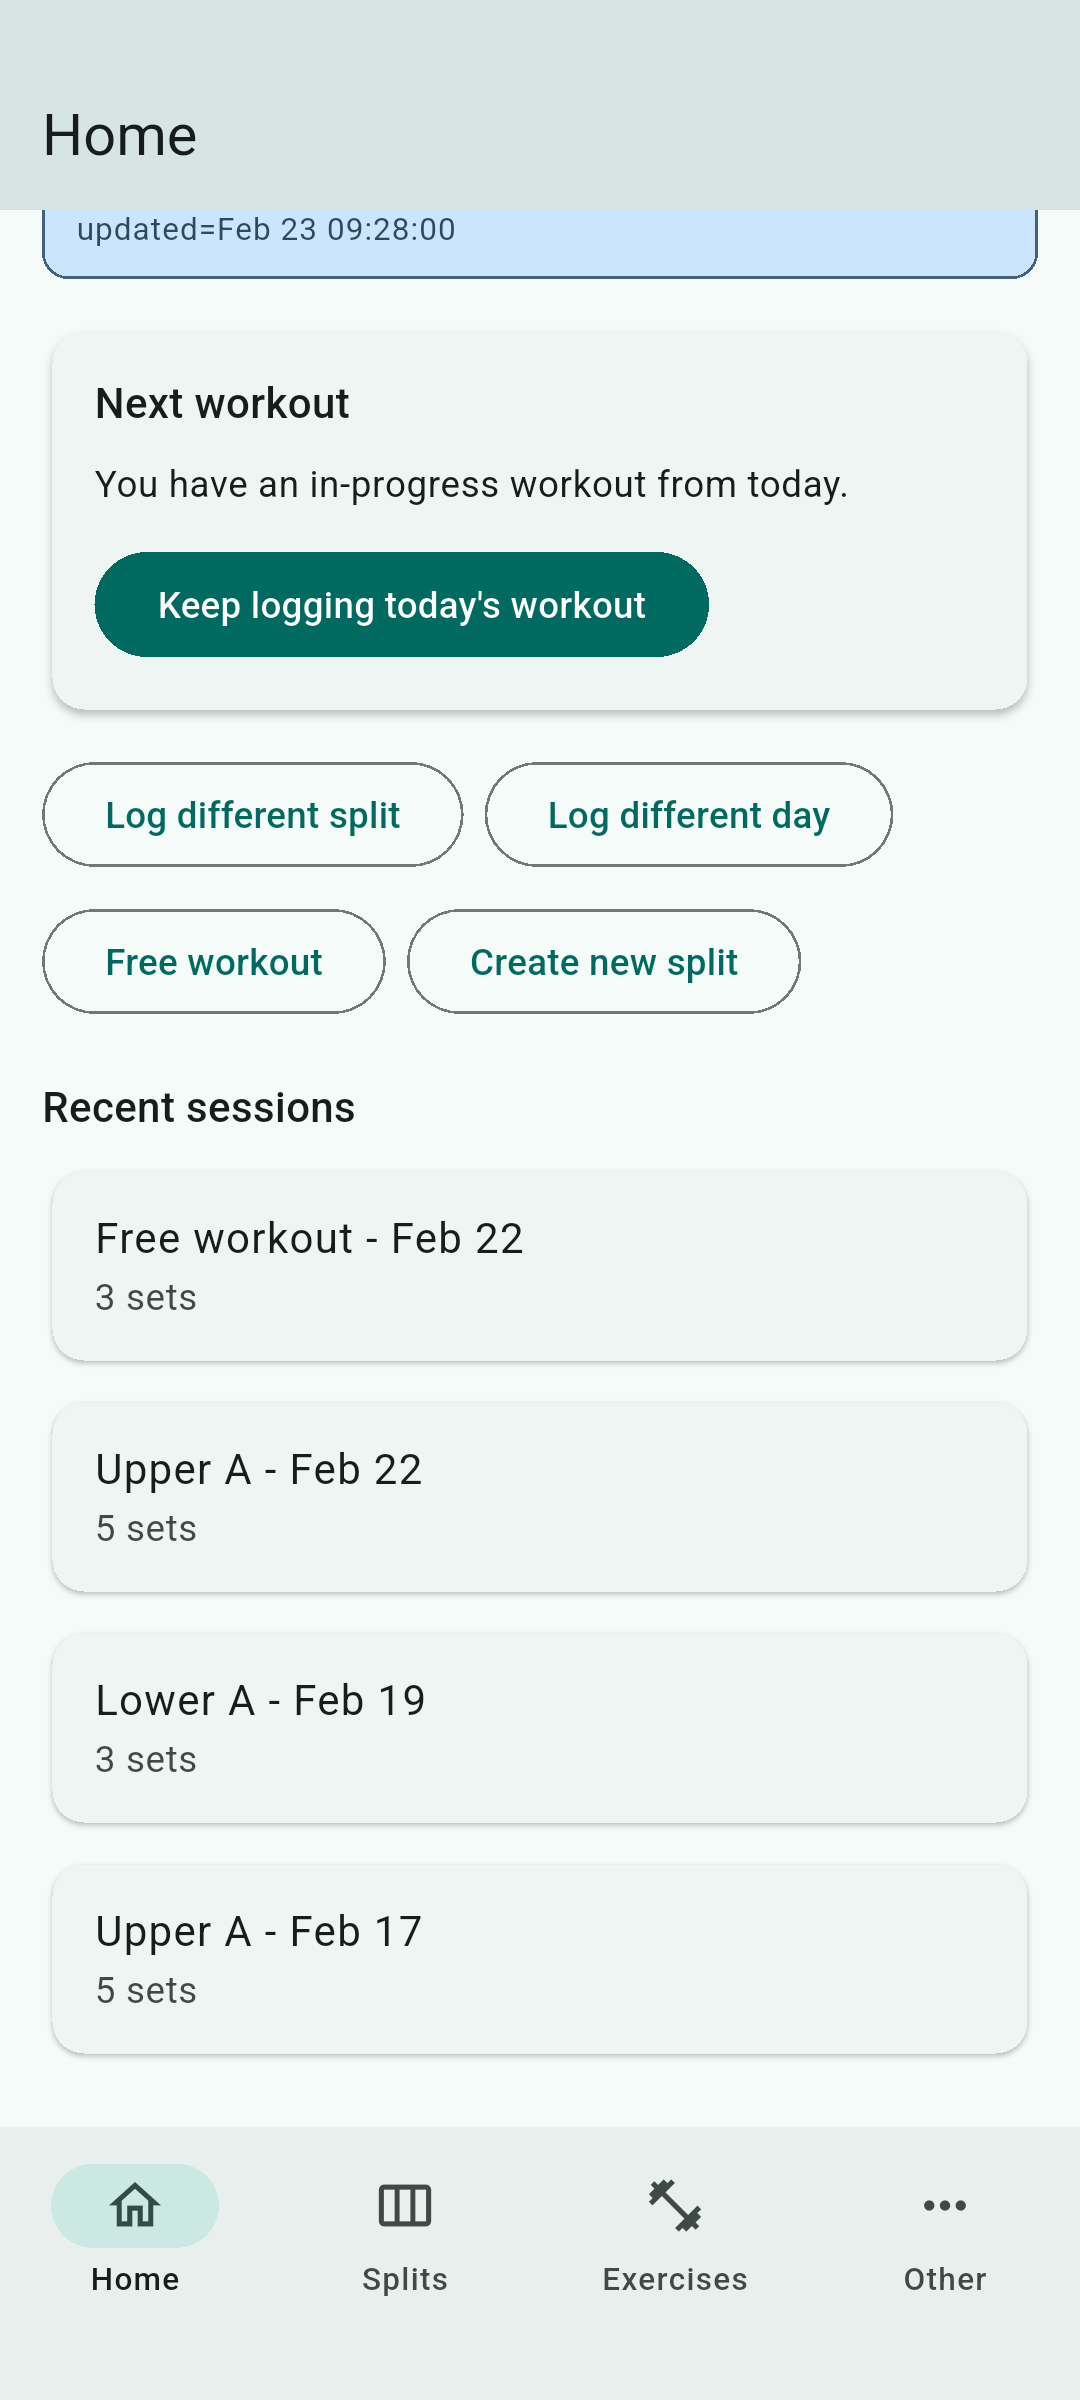
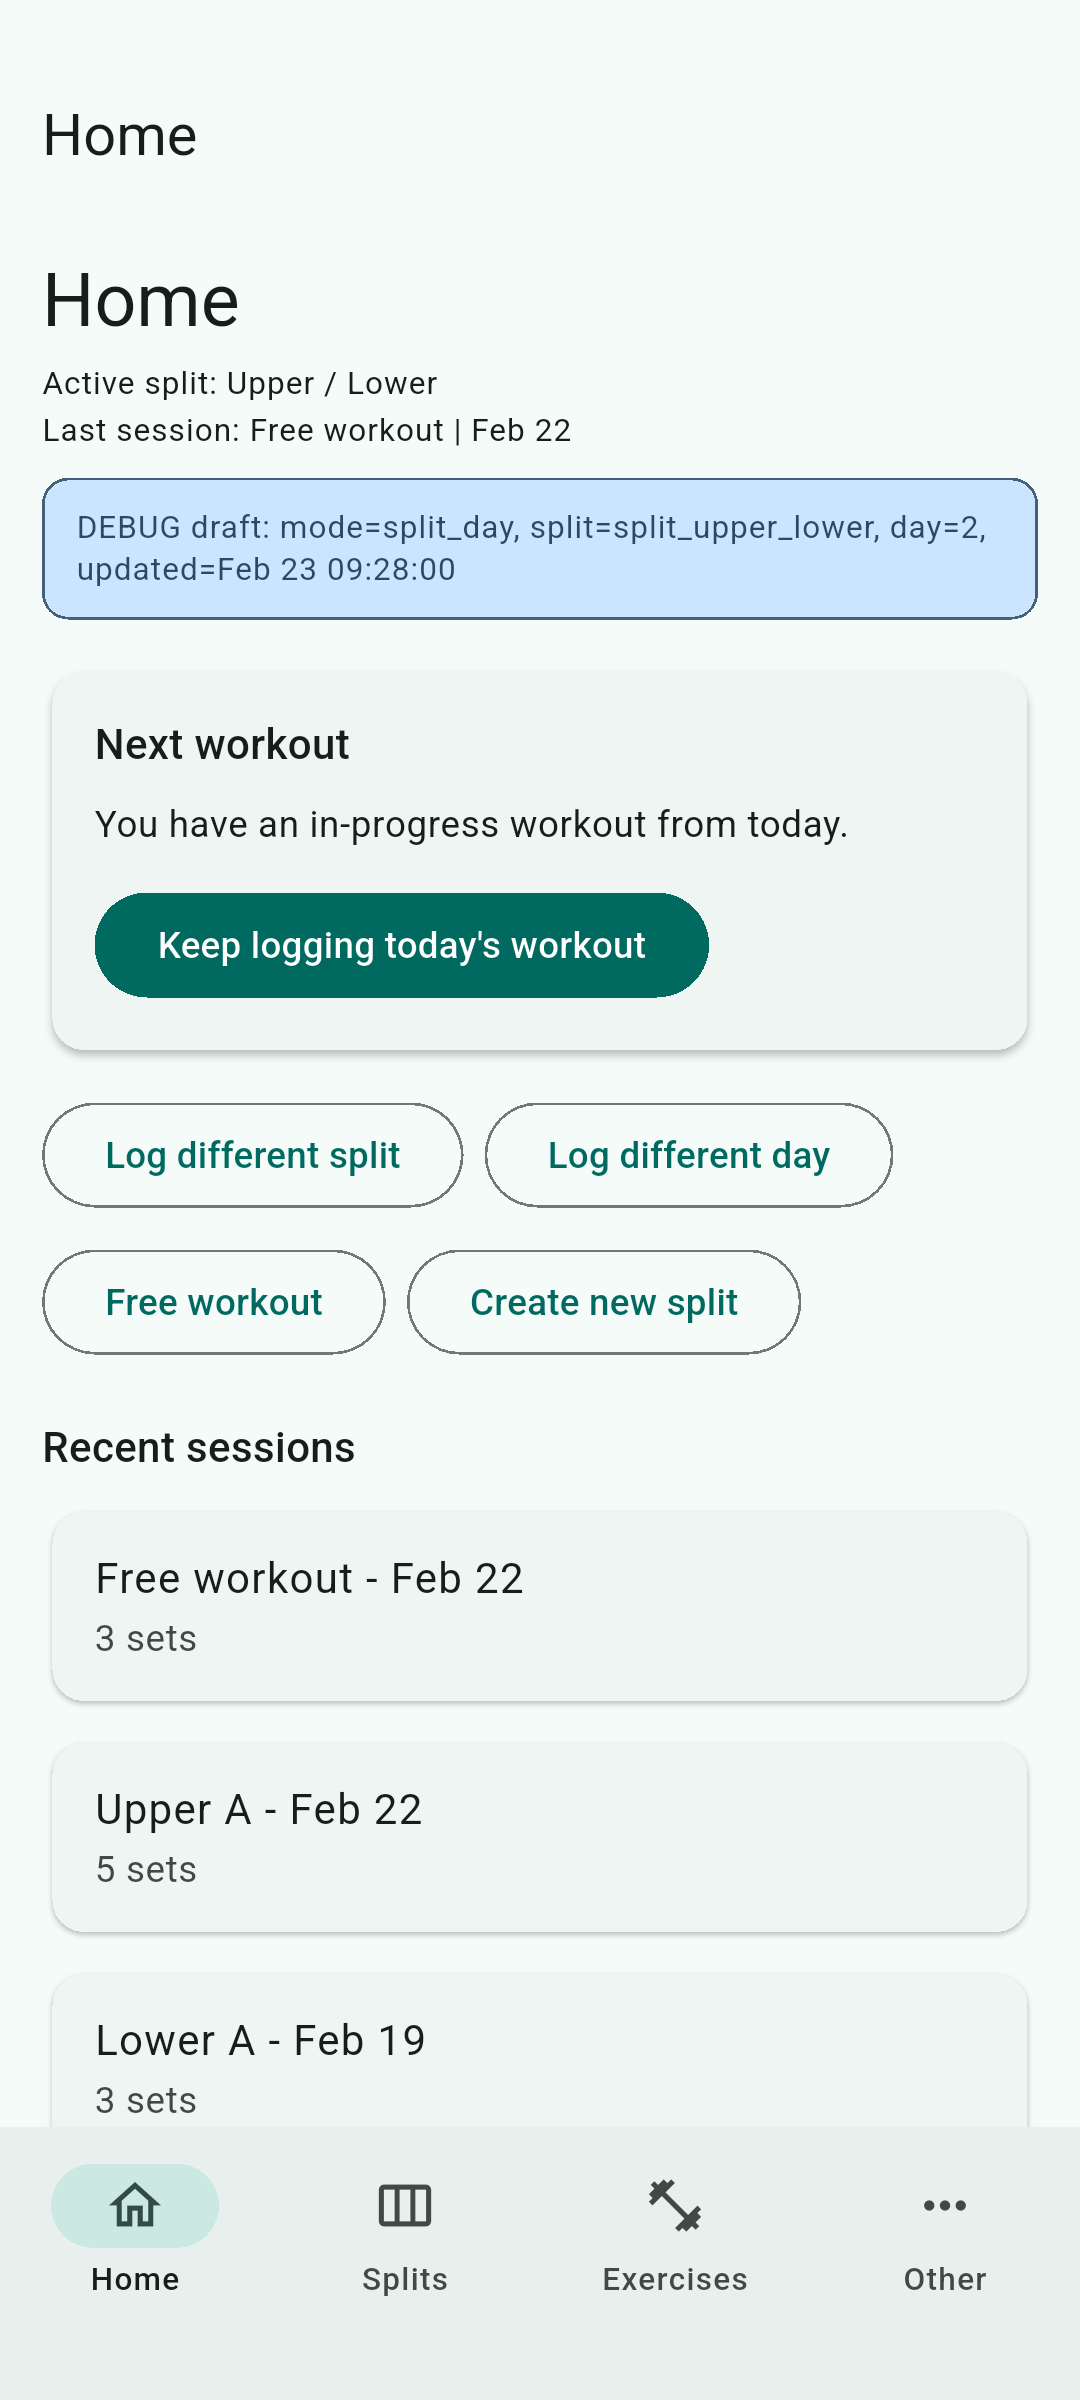
Fix home screenshot top anchoring in capture flow

diff --git a/app/integration_test/screenshots_flow_test.dart b/app/integration_test/screenshots_flow_test.dart
@@ -72,23 +72,19 @@ Future<void> _runCaptureStep(
       return;
     case ScreenshotCaptureStep.homeKeepLoggingToday:
       await _goHome(tester);
-      await tester.ensureVisible(
-        find.byKey(const Key('home_keep_logging_today')),
-      );
+      expect(find.byKey(const Key('home_keep_logging_today')), findsOneWidget);
       return;
     case ScreenshotCaptureStep.homeSetCurrentSplit:
       await _goHome(tester);
-      await tester.ensureVisible(find.text('Set current split'));
+      expect(find.text('Set current split'), findsOneWidget);
       return;
     case ScreenshotCaptureStep.homeRecoveryLastUsedExists:
       await _goHome(tester);
-      await tester.ensureVisible(find.text('Set last used split as current'));
+      expect(find.text('Set last used split as current'), findsOneWidget);
       return;
     case ScreenshotCaptureStep.homeRecoveryLastUsedDeleted:
       await _goHome(tester);
-      await tester.ensureVisible(
-        find.text('Your last used split was deleted.'),
-      );
+      expect(find.text('Your last used split was deleted.'), findsOneWidget);
       return;
     case ScreenshotCaptureStep.homeRecentSessionsPopulated:
       await _goHome(tester);
@@ -96,7 +92,6 @@ Future<void> _runCaptureStep(
       return;
     case ScreenshotCaptureStep.homeRecentSessionsEmpty:
       await _goHome(tester);
-      await tester.ensureVisible(find.text('No sessions logged yet.'));
       return;
     case ScreenshotCaptureStep.splitsList:
       await _goToSplitsTab(tester);
@@ -242,7 +237,11 @@ Future<void> _runCaptureStep(
 }
 
 Future<void> _goHome(WidgetTester tester) async {
-  await tester.tap(find.byIcon(Icons.home_outlined));
+  final homeTab = find.byIcon(Icons.home_outlined).hitTestable();
+  if (homeTab.evaluate().isEmpty) {
+    throw StateError('Home tab icon is not visible.');
+  }
+  await tester.tap(homeTab.first);
   await tester.pumpAndSettle();
   await _scrollToTop(tester);
 }
@@ -340,12 +339,14 @@ Future<void> _enterFirstSet(WidgetTester tester) async {
 }
 
 Future<void> _scrollToTop(WidgetTester tester) async {
-  final scrollable = find.byType(Scrollable);
-  if (scrollable.evaluate().isEmpty) {
+  final homeScrollView = find
+      .byKey(const Key('home_scroll_view'))
+      .hitTestable();
+  if (homeScrollView.evaluate().isEmpty) {
     return;
   }
-  for (var i = 0; i < 6; i++) {
-    await tester.drag(scrollable.first, const Offset(0, 500));
+  for (var i = 0; i < 8; i++) {
+    await tester.drag(homeScrollView.first, const Offset(0, 700));
     await tester.pumpAndSettle(const Duration(milliseconds: 120));
   }
 }

diff --git a/app/lib/features/home/home_screen.dart b/app/lib/features/home/home_screen.dart
@@ -25,6 +25,7 @@ class HomeTabContent extends ConsumerWidget {
     final debugDraft = ref.watch(effectiveWorkoutDraftProvider);
 
     return ListView(
+      key: const Key('home_scroll_view'),
       padding: const EdgeInsets.all(16),
       children: [
         Text('Home', style: Theme.of(context).textTheme.headlineMedium),
